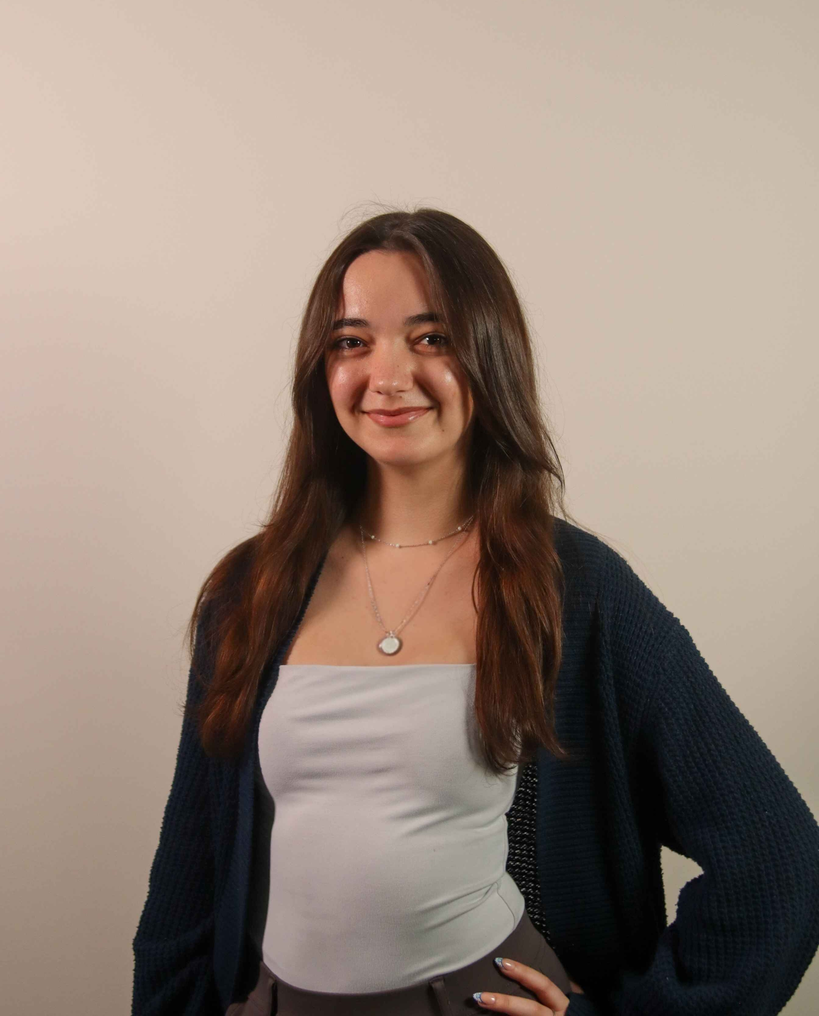
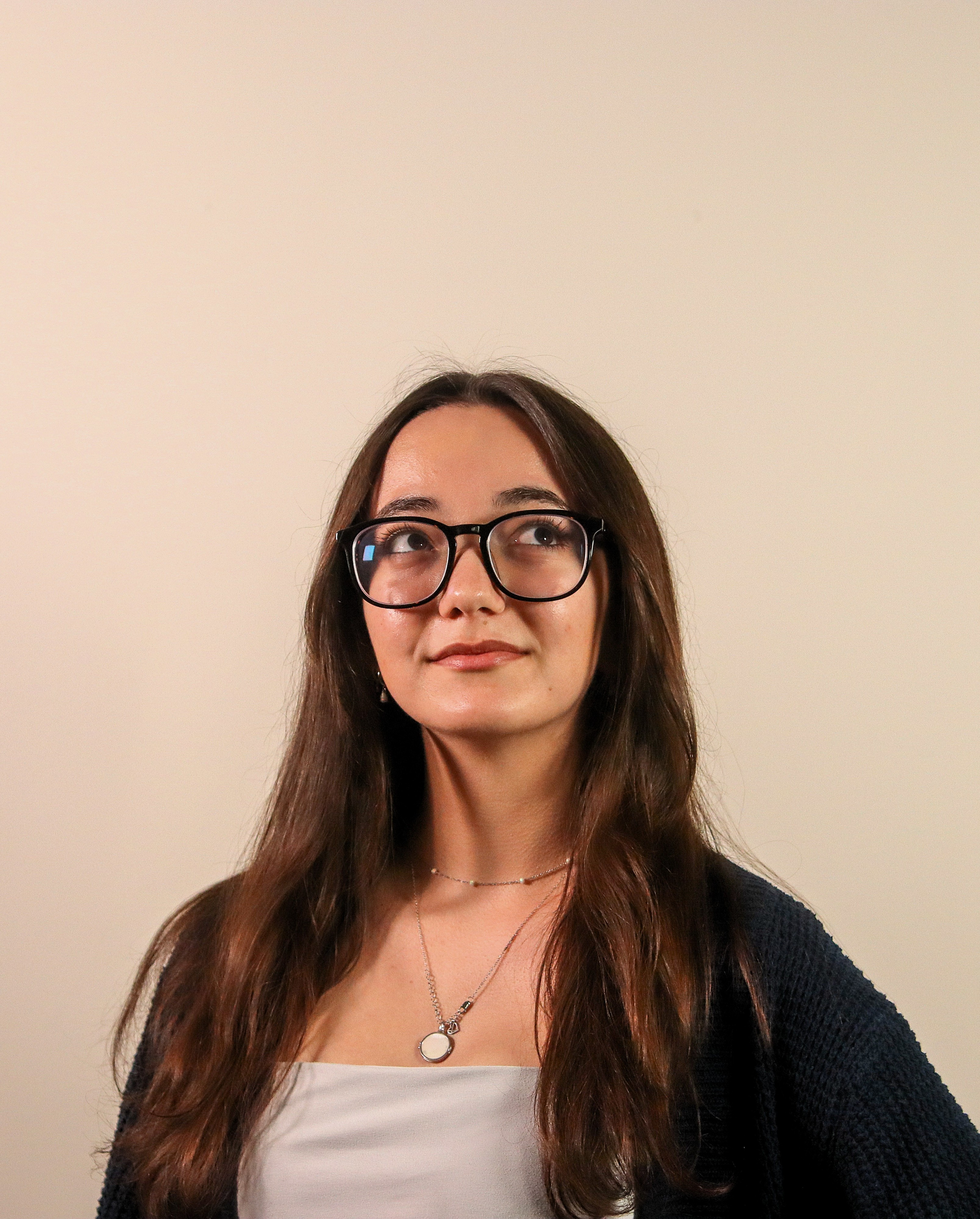
adding signature and alternate portrait to 'about' section

diff --git a/app/globals.css b/app/globals.css
@@ -171,6 +171,7 @@ section{padding:7rem var(--pad)}
 .portrait-frame{position:relative;padding:6px;background:linear-gradient(145deg,#eef1ef,#c7cdc9 40%,#f4f6f4 55%,#b9c2bd 80%,#e9ece9);border-radius:6px;box-shadow:0 1px 0 rgba(255,255,255,.9) inset,0 18px 40px -14px rgba(20,30,25,.35)}
 .portrait-frame::after{content:'';position:absolute;inset:6px;border-radius:3px;pointer-events:none;box-shadow:0 1px 0 rgba(255,255,255,.65) inset,0 -1px 0 rgba(0,0,0,.15) inset}
 .portrait-img{display:block;width:100%;border-radius:3px;}
+.portrait-signature{position:absolute;right:0.1rem;bottom:-3.8rem;width:min(46%,195px);max-width:195px;opacity:0.98;transform:rotate(-5.5deg);transform-origin:bottom right;z-index:2;pointer-events:none}
 .sb-lbl{font-family:var(--mono);font-size:.62rem;letter-spacing:.15em;color:var(--s);margin-bottom:.6rem;margin-top:1.8rem;display:block}
 .sb-list{list-style:none}
 .sb-list li{font-size:.83rem;padding:.28rem 0;border-bottom:1px solid var(--ch);opacity:.72}

diff --git a/app/page.tsx b/app/page.tsx
@@ -283,13 +283,18 @@ export default function Page() {
               <div className="portrait-frame">
                 {/* eslint-disable-next-line @next/next/no-img-element */}
                 <img
-                  src="/portrait.jpg"
+                  src="/portrait2.jpg"
                   alt="Morgan Koch"
                   className="portrait-img"
                   onError={(e) => {
                     (e.currentTarget as HTMLImageElement).src =
                       "https://images.unsplash.com/photo-1561897519-6e4fbd1fbc41?q=80&w=774&auto=format&fit=crop&ixlib=rb-4.1.0&ixid=M3wxMjA3fDB8MHxwaG90by1wYWdlfHx8fGVufDB8fHx8fA%3D%3D";
                   }}
+                />
+                <img
+                  src="/SignatureHeart.png"
+                  alt="Morgan Koch signature"
+                  className="portrait-signature"
                 />
               </div>
             </div>
